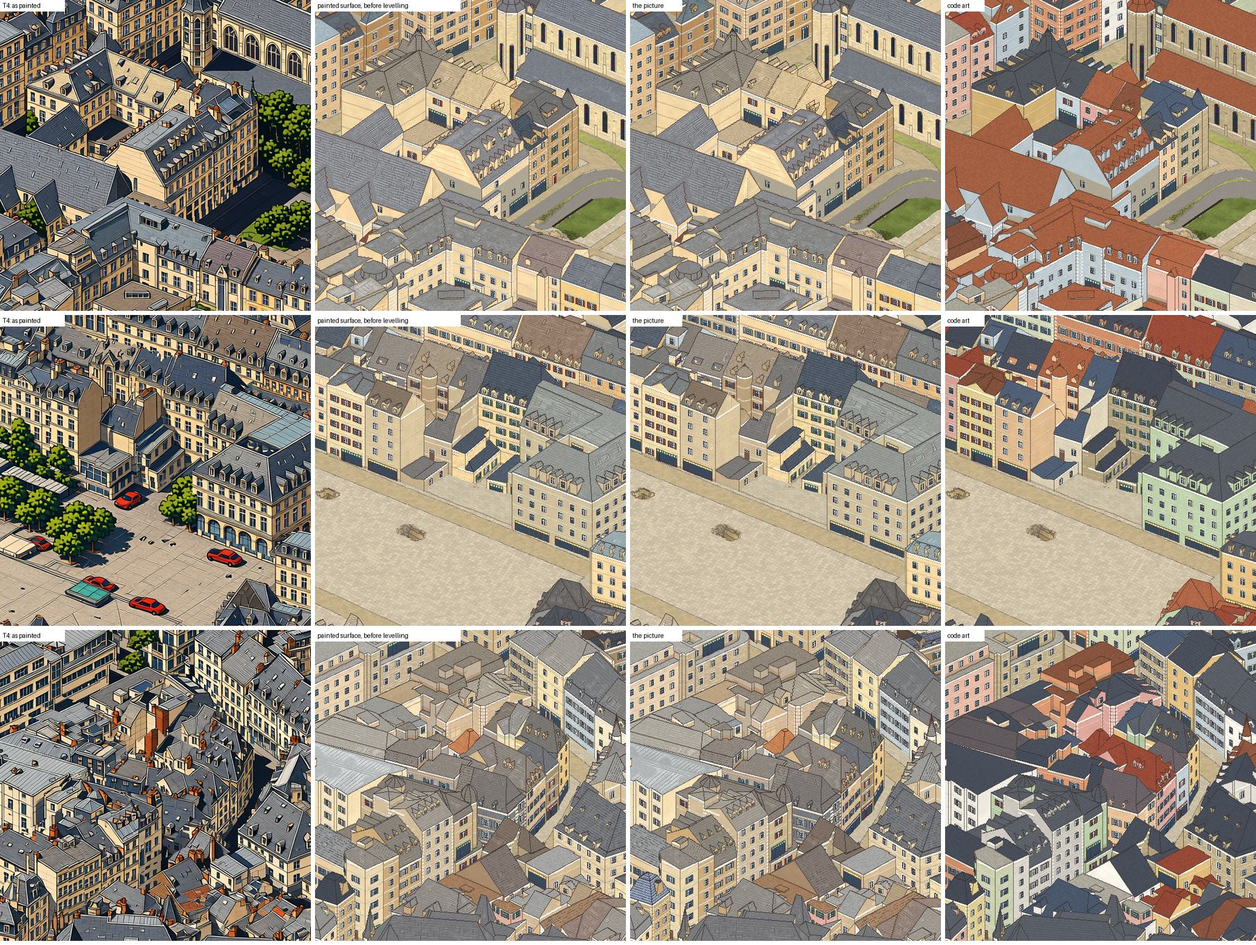
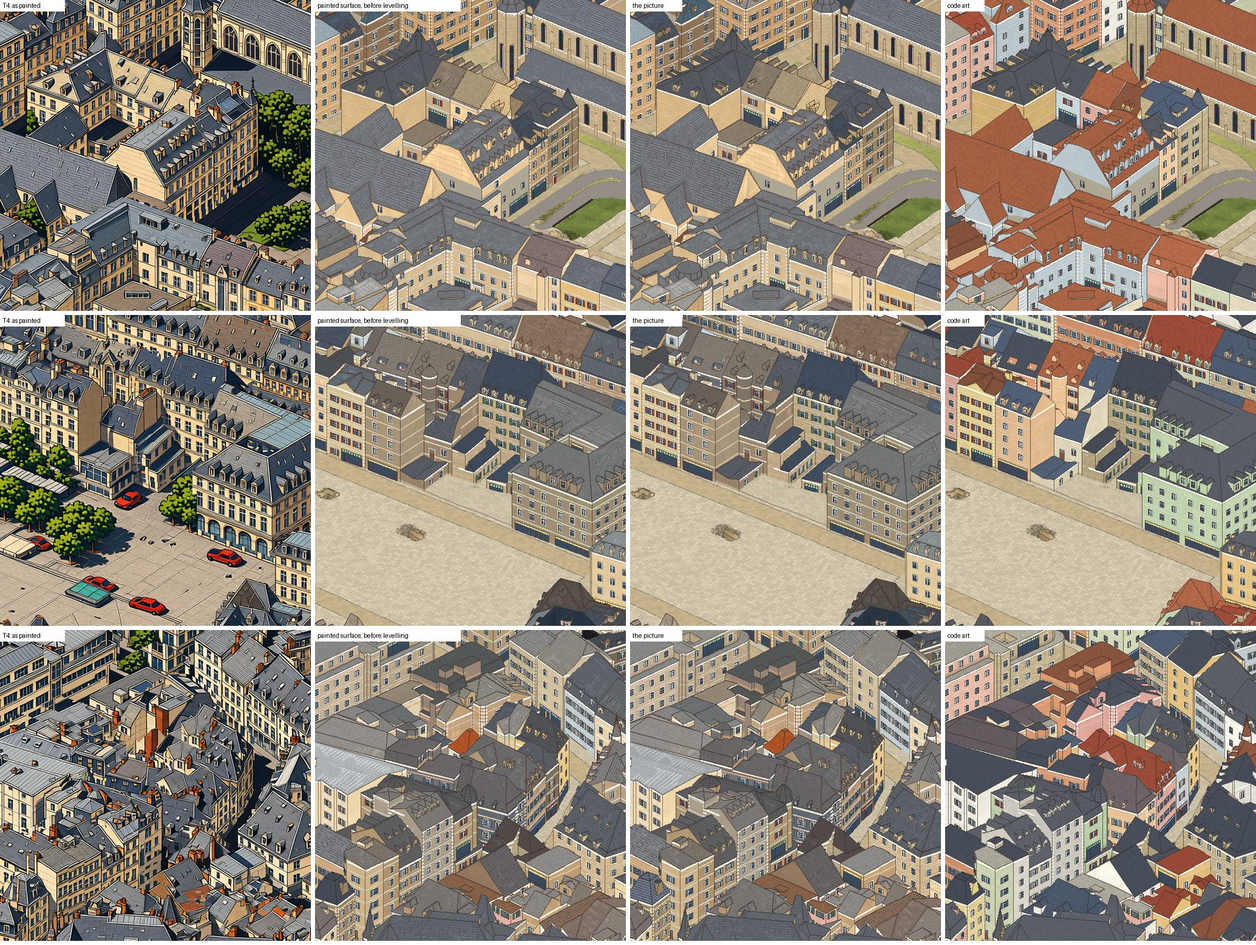
v2: a painted building's colour is read at its own tone, in the model's light
Each part's colour was read at its highlights: walls 38 percent brighter than
the painting has them, roofs light grey for dark slate, the painted area 13
percent brighter than v1's art. It is now read where the 3D model says the sun
falls, over the middle of those pixels' brightness. Buildings measure 0.46
against v1's 0.47. The rooftop storey the vehicle detector read as a bus is gone
with it: the build's line, shadow and vehicle checks all pass on the painted tiles.

Changed region(s): [[0.2475, 0.0, 0.7735, 1.0]]

diff --git a/v2/bakeoff/detail.py b/v2/bakeoff/detail.py
@@ -307,6 +307,21 @@ def band_colour(px, band):
     return s.mean(0) if len(s) else px.mean(0)
 
 
+def part_colour(px, lit, kind: str, p: dict = P):
+    """A building part's colour out of its painting's pixels. `px`: all of them (rgb rows); `lit`: which of them
+    the 3D model puts in the photo's light (None: not known).
+
+    p["band_lit_" + kind] (SURFACE): the colour is read where the model says the sun is, over the middle of those
+    pixels' brightness: the tone the surface has, not its highlights (the upper band read walls 38% brighter than
+    the painting has them, and roofs light grey for dark slate: report section 27). A part with too few pixels in
+    the light (a wall seen from its shaded side only) is read as before, over the upper band of all of it: its
+    brightest is the nearest it has to its lit colour."""
+    band = p.get("band_lit_" + kind)
+    if band is not None and lit is not None and lit.sum() >= p["min_px"] * 0.5:
+        return band_colour(px[lit], band)
+    return band_colour(px, p["band_" + kind])
+
+
 def transfer(code, painting, g: dict, have=None, p: dict = P, colours=None, cast=None):
     """The code art with each building's wall and roof colour and fine texture taken from the (registered)
     painting. Returns (rgb, {"parts", "skipped", "changed": share of the window's pixels}).
@@ -349,7 +364,7 @@ def transfer(code, painting, g: dict, have=None, p: dict = P, colours=None, cast
             if good.sum() < p["min_px"] * 0.5 or not plain.any():
                 st["skipped"] += 1
                 continue
-            target = band_colour(src[good], p["band_" + kind])
+            target = part_colour(src[good], None if cast is None else ~cast[good], kind, p)
             if colours and (int(b), kind) in colours:                  # the building's one colour (one_colour)
                 target = np.asarray(colours[(int(b), kind)], float)
             base_c = np.median(code[plain], axis=0)
@@ -1087,9 +1102,10 @@ def level(rgb, g: dict, min_px=150, colours=None):
     return np.clip(np.round(out), 0, 255).astype(np.uint8)
 
 
-def part_colours(reg, g: dict, p: dict = P) -> dict:
+def part_colours(reg, g: dict, p: dict = P, cast=None) -> dict:
     """What a (placed) painting gives each building for a colour: {(building, "wall" | "roof"): (rgb, pixels)},
-    the colour delit would set it on (the painting's brighter band, trees and borders left out)."""
+    the colour delit would set it on (the painting's brighter band, trees and borders left out); with SURFACE and
+    the model's shadow (cast), part_colour's reading in the light."""
     from scipy import ndimage as ndi
     src = np.asarray(reg, float)
     bid, cls, face, _seg = segments(g)
@@ -1111,7 +1127,7 @@ def part_colours(reg, g: dict, p: dict = P) -> dict:
             continue
         k = int(u[i]) - 1
         kind = "roof" if k % 2 else "wall"
-        out[(k // 2, kind)] = (band_colour(src[sl][m], p["band_" + kind]), int(m.sum()))
+        out[(k // 2, kind)] = (part_colour(src[sl][m], None if cast is None else ~cast[sl][m], kind, p), int(m.sum()))
     return out
 
 
@@ -1132,7 +1148,8 @@ def one_colour(tables: dict) -> dict:
 TWO_TONE = 0.25                                  # delit's two_tone for a target
 # the painting's surface only (owner, 22 Nov 2026: "Model's details, painted surfaces"): transfer's settings
 SURFACE = dict(P, k_wall=1.0, clip_wall=(-0.16, 0.10), k_roof=1.0, clip_roof=(-0.22, 0.14),
-               obj=0.22, obj_blur=2.5, obj_sigma=24.0, obj_grow=3, obj_soft=2.0)
+               obj=0.22, obj_blur=2.5, obj_sigma=24.0, obj_grow=3, obj_soft=2.0,
+               band_lit_wall=(0.5, 0.85), band_lit_roof=(0.3, 0.7))
 
 
 def target(code, painting, g: dict, meta: dict, colours=None, reg=None, two_tone=TWO_TONE, mode="surface", cast=None) -> dict:
@@ -1194,7 +1211,7 @@ def targets(source: str = "T1", img: Path | None = None, write=True, one=True, m
     # first every painting placed, and what it would give each building for a colour; then one colour a building
     rdir = base() / "registered" / source
     rdir.mkdir(parents=True, exist_ok=True)
-    tables = {}
+    tables, casts = {}, {}
     src, names, seeds = inputs_dir(source), names_of(source), seeds_of(source)
     shown = set(names)
     if is_area(source):                                    # sheets of the six windows with the most to paint
@@ -1213,7 +1230,9 @@ def targets(source: str = "T1", img: Path | None = None, write=True, one=True, m
             else:
                 reg = register(code, painting, g)[0]
                 Image.fromarray(reg).save(rf)
-            tables[f"{name}_{k}"] = part_colours(reg, g)
+            if mode == "surface" and name not in casts:
+                casts[name] = photo_shadow(g, meta)
+            tables[f"{name}_{k}"] = part_colours(reg, g, SURFACE, casts[name]) if mode == "surface" else part_colours(reg, g)
     colours = one_colour(tables) if one else None
     for name in names:
         code, g, meta = load_input(name, src)
@@ -1221,8 +1240,7 @@ def targets(source: str = "T1", img: Path | None = None, write=True, one=True, m
             if f"{name}_{k}" not in tables:
                 continue
             reg = np.asarray(Image.open(rdir / f"{name}_{k}.png").convert("RGB"))
-            t = target(code, None, g, meta, colours=colours, reg=reg, mode=mode,
-                       cast=photo_shadow(g, meta) if mode == "surface" else None)
+            t = target(code, None, g, meta, colours=colours, reg=reg, mode=mode, cast=casts.get(name))
             res[f"{name}_{k}"] = {s: painting_checks(t[s], g, meta, scene_folder) for s in t if s != "faces"}
             res[f"{name}_{k}"]["faces"] = t["faces"]
             if write:                                      # kept for the detector, the seams and the viewer

diff --git a/v2/bakeoff/tests/test_detail.py b/v2/bakeoff/tests/test_detail.py
@@ -718,3 +718,21 @@ def test_a_narrow_painted_shadow_on_the_models_shadow_line_is_no_part_of_the_tex
     flat = painting_of(code, g)
     a, b = D.transfer(code, flat, g, p=D.SURFACE)[0], D.transfer(code, flat, g, p=D.SURFACE, cast=band)[0]
     assert abs(ratio(a) - 1) < 0.02 and abs(ratio(b) - 1) < 0.02
+
+
+def test_a_parts_colour_is_read_in_the_light_at_its_middle_tone_and_in_the_shade_as_before():
+    """SURFACE: where the 3D model says the sun falls, a part's colour is the middle of those pixels' brightness
+    (the tone the surface has), not the highlights; a part with too few pixels in the light keeps the upper band."""
+    rng = np.random.default_rng(3)
+    body = np.array([170.0, 150.0, 110.0])
+    px = np.tile(body, (2000, 1)) + rng.normal(0, 4, (2000, 3))
+    px[:300] *= 1.35                                                     # highlights
+    px[300:700] *= 0.35                                                  # windows and ink the painting drew
+    lit = np.ones(2000, bool); lit[700:1100] = False                     # and a part of it in the model's shadow
+    px[700:1100] *= 0.6
+    got = D.part_colour(px, lit, "wall", D.SURFACE)
+    assert abs(D.lum(got) / D.lum(body) - 1) < 0.06                      # the body's tone (a fifth of the lit pixels are highlights)
+    assert D.lum(D.part_colour(px, lit, "wall", D.P)) > D.lum(body) * 1.08   # the upper band read into the highlights
+    few = np.zeros(2000, bool); few[:20] = True                          # a wall seen from its shaded side
+    assert np.allclose(D.part_colour(px, few, "wall", D.SURFACE), D.band_colour(px, D.P["band_wall"]))
+    assert np.allclose(D.part_colour(px, None, "wall", D.SURFACE), D.band_colour(px, D.P["band_wall"]))

diff --git a/v2/docs/PHASE3_REPORT.md b/v2/docs/PHASE3_REPORT.md
@@ -2559,3 +2559,102 @@ pilot the plan asks for first would be about $4.50.
     a bus at 0.101 against 0.10): list each as an exception with its reason, or have me look for a cause to
     fix in the method first?
 60. **Which art for the city** (gate G2, question 44): the code art, or painted this way?
+
+## 27. The two narrow failures fixed, and the painted area closer to v1's colour (23 November, $0)
+
+Branch `v2-phase3-paint-gates`. **Spent: $0.** No pod. The owner's answers of 23 November to section 26: the
+painted area "looks good"; merge PR #24 "do it" (merged as 31fe13e, CI green); the two narrow failures "fix
+them"; which art for the city "show pictures side by side". Then, on seeing them: "the colors in v1 are more
+alive, can we do something about it?"
+
+### 27.1 The roof that failed the shadow detector
+
+- **The cause.** The painting kept a shadow as a band about 5 px wide along that roof's foot. The texture is
+  the painting's brightness against its local mean over 7 px, so a shadow wider than that falls out and one
+  narrower does not. On the exact strip the detector read, the picture was 5.5% darker in the model's shadow
+  than beside it; the painting itself is 4.2% darker there; with no painted texture the picture is 0.8%, as
+  the code art is.
+- **The fix.** The 3D model's shadow for the aerial photo's sun is known. The local mean is now taken on each
+  side of that shadow line apart (`transfer`, `cast`; `v2/bakeoff/detail.py`). The strip: 0.9%.
+- **Tried and taken out again:** levelling the shadow's pixels to the lit ones per building part (it moved
+  nothing: the residue is local, not over the whole shadow), and bringing the kept texture to a mean of
+  nothing per face (no effect on the strip, and none in a test made for it).
+- **The build's shadow detector on the painted tiles: 0 of 227, the worst 4.3%** (it was 1 at 5.2%; the code
+  art is 0, worst 4.0%).
+
+### 27.2 The colour, against v1
+
+Measured on the old town, the same ground in each (brightness and saturation from 0 to 1):
+
+| | Buildings, brightness | Buildings, saturation a pixel | Darkest and lightest twentieth |
+|---|---|---|---|
+| v1's finished art | 0.47 | 0.25 | 0.13 to 0.85 |
+| T4's painting, as painted | 0.44 | 0.27 | 0.10 to 0.86 |
+| v2 painted in the viewer, before | 0.53 | 0.17 | 0.18 to 0.82 |
+| v2 painted in the viewer, now | **0.46** | 0.20 | 0.18 to 0.75 |
+
+- **The model paints as vividly as v1.** The colour was lost in making the picture.
+- **The cause found: each part's colour was read at its highlights.** The upper band of a part's brightness
+  (walls 70% to 95%) was taken as "the lit side". It read walls 38% brighter than the painting has them and
+  roofs light grey for dark slate.
+- **The fix.** A part's colour is read where the 3D model says the sun falls, over the middle of those pixels'
+  brightness (walls 50% to 85%, roofs 30% to 70%): the tone the surface has. A part with too few pixels in the
+  light is read as before (`part_colour`, `SURFACE`). No building came out dark on the window tried; a first
+  try (the most common tone of all pixels) turned three walls black and was dropped.
+- **What it does not close.** Averaged over an area the painted colours are as saturated as v1's (walls 0.27
+  against 0.22). What v1 has more of is difference from pixel to pixel and a wider run from dark to light:
+  ink, shading inside a face, deep street shadows. The darkest tone in v2 is its ink line (0.18).
+- **Not the light.** The viewer's daylight already tints the shade blue and has about v1's contrast between
+  lit and shaded faces (the painting: walls 144 lit against 122 in the model's shadow, roofs 114 against 82).
+  It was not changed.
+
+![v1's art, v2 painted before, v2 painted now: the old town at the photo's hour](img/test_area_painted_against_v1.jpg)
+![One window: the painting, the picture before, the picture now (no light)](img/test_area_painted_colour_reading.jpg)
+
+### 27.3 The whole area made again, and its checks
+
+| Check | Section 26 | Now |
+|---|---|---|
+| Pictures: even light (5% per building) | 0 of 101 fail, worst 1.1% | 0 of 101 fail, worst 1.4% |
+| Pictures: window rows (95%) | least 98.9% | least 96.3% |
+| Pictures: building edges (95%) | 91 of 101 | 86 of 101; the least 79.9%, the median 96.7% |
+| Pictures: one building in two neighbouring windows, median | 0.22% | 0.17%; 0.84% over 5% |
+| Pictures: vehicles (the build's detector on each picture) | 0 of 101 | **3 of 101**, see below |
+| Build: lines (edges, window rows, tracery; 95%) | 97.4%, 99.8%, 99.5% | **pass**: 96.5%, 99.8%, 99.5% |
+| Build: baked light (of 227) | 1 fails, 5.2% | **pass**: 0, worst 4.3% |
+| Build: vehicles on every tile of every colour layer | 1 fails, 0.101 | **pass**: 0 |
+
+- **The rooftop storey read as a bus is gone.** Its roof had been read too pale; at its own tone the detector
+  stays under 0.10. This is the same cause as section 27.2, not a change made for the detector.
+- **The three pictures the detector marks are not the gate**, and none is a vehicle: a strip of wall at one
+  picture's edge (0.106), and one small building in two pictures (0.124, 0.136). That building is a dark blue
+  shelter beside the railway; the aerial photo shows it dark blue, the code art drew it pink, and at its own
+  colour, whole in a picture with the road beside it, it reads as a bus. On the tiles, where the gate reads
+  each layer by itself, the detector finds nothing.
+- **Edges on dark roofs.** With roofs at their own tone the ink line stands out less from them, and the line
+  score falls on some pictures. The build's score over the whole area passes (96.5% against 95%; the code art
+  96.3%).
+- Tests: 2 new (164 in all, all pass).
+
+### 27.4 The side-by-side pictures
+
+Eight views of the test area photographed in the viewer, code art beside painted, and the old town against
+v1's art, on one private page for the owner (not in the repository). The viewers: painted
+`python -m v2.view test_painted --port 5175`, code art `python -m v2.view test --port 5176`.
+
+### 27.5 Limits, said plainly
+
+- v1 still has the wider run from dark to light (section 27.2). Closing it means either deeper darks in the
+  ink and the windows, more of the painting's own shading inside a face (against the even-light rule), or a
+  change to the look's grade. None was tried.
+- The ground, the cliffs and the trees are the code art's in both; in v1's art they are darker and greener.
+- The pictures against v1 are not framed to the pixel alike.
+- I looked at the old town and at the eight views; not at every part of the area at the new colours.
+
+### 27.6 Open questions
+
+44 and 46 stand. 59 is answered (both fixed by a cause; nothing listed as an exception).
+
+60. **Which art for the city** (gate G2): the code art, or painted this way?
+61. **More of v1's contrast** (deeper darks, a wider run from dark to light): try it, or is the painted area
+    alive enough now?

diff --git a/research/v2/DECISIONS.md b/research/v2/DECISIONS.md
@@ -91,3 +91,4 @@ one is a decision for the owner, written here with its date.
 | The cathedral's windows look right; PR #21 merged; the copper spire; the other landmarks the same way (23 Nov) | Shown the cathedral with its windows as its sources show them (report section 23) and asked (1) whether they are right now, (2) whether to merge PR #21 into `v2`, (3) whether to make the central spire copper green and (4) whether to do the other landmarks the same way and which first (the palace, the abbey, Saint-Michel, Saint-Jean du Grund, Sainte-Cunégonde), the owner answered on 23 Nov 2026: "1- looks good 2- yes 3- do it 4- do it". PR #21 was merged as df67c6d (CI green). At $0: the cathedral's central spire and its lantern are copper green (a `clad` part in `v2/data/structures/landmark_styles.json`; layer-05 spec); Saint-Michel (4 walls), the tower of Saint-Jean du Grund (2 walls) and Sainte-Cunégonde (7 walls) are entered wall by wall from v1's aerial capture and photographs from Wikimedia Commons, named in `landmark_facades.json` (facades.md, "Three more churches"; report section 24). No order was named, so all five were looked at. Two were left on the rule, for a reason found in the sources and not by choice: the Grand Ducal Palace's known front looks away from the map's camera and what the camera sees of it is too narrow and too soft in the capture to read; the abbey church's cloister wall already had the rule's windows where the capture shows them. |
 | The spire and the three churches are good enough for v2; PR #22 merged; the churches' wall colours; the quote for the whole test area (23 Nov) | Shown the copper spire and Saint-Michel, Saint-Jean du Grund and Sainte-Cunégonde with the windows their sources show (report section 24) and asked (1) whether they look right, (2) whether to merge PR #22 into `v2`, (3) whether to give the three churches their real wall colours and (4) whether the next step is the quote for painting the whole test area, the owner answered on 23 Nov 2026: "1- good enough for v2 2- yes 3- yes 4- yes". PR #22 was merged (501873a, CI green). The colours and the quote are report section 25. My reading of (4): the quote is the next step; the run itself still needs the owner's approval of that quote. |
 | Quote q0019 approved; PR #23 merged (23 Nov) | Shown the three churches in their wall colours, the whole test area's paint job run dry at $0 and its quote (report section 25), and asked (1) "Approve quote q0019: paint the whole test area (101 windows) on your RunPod account, expected $1.73, worst case $2.19 (hard 60-minute cap), leaving Phase 3 at least $2.82 of $8?" and (2) "Merge PR #23 into v2 (the three churches' wall colours and the paint job's tooling; CI is green, 57 of 57 build stages pass)?", the owner answered on 23 Nov 2026: "Approve q0019 (Recommended)" and "Merge (Recommended)". T4 ran once ($1.6946, report section 26); PR #23 was merged (2690bfd). |
+| The painted test area looks good; PR #24 merged; fix the two narrow failures; pictures side by side; v1's colours are more alive (23 Nov) | Shown the whole test area painted (report section 26) and asked (1) whether it is the look wanted, (2) whether to merge PR #24 into `v2`, (3) whether to list the two narrow check failures as exceptions or look for a fix in the method, and (4) which art the city gets, the owner answered on 23 Nov 2026: "1- looks good 2- do it 3- fix them 4- show pictures side by side". PR #24 was merged (31fe13e). Shown the pictures, the owner said: "the colors in v1 are more alive, can we do something about it?". Both failures were fixed by a cause and the colour reading changed (report section 27). Which art the city gets is still open. |
